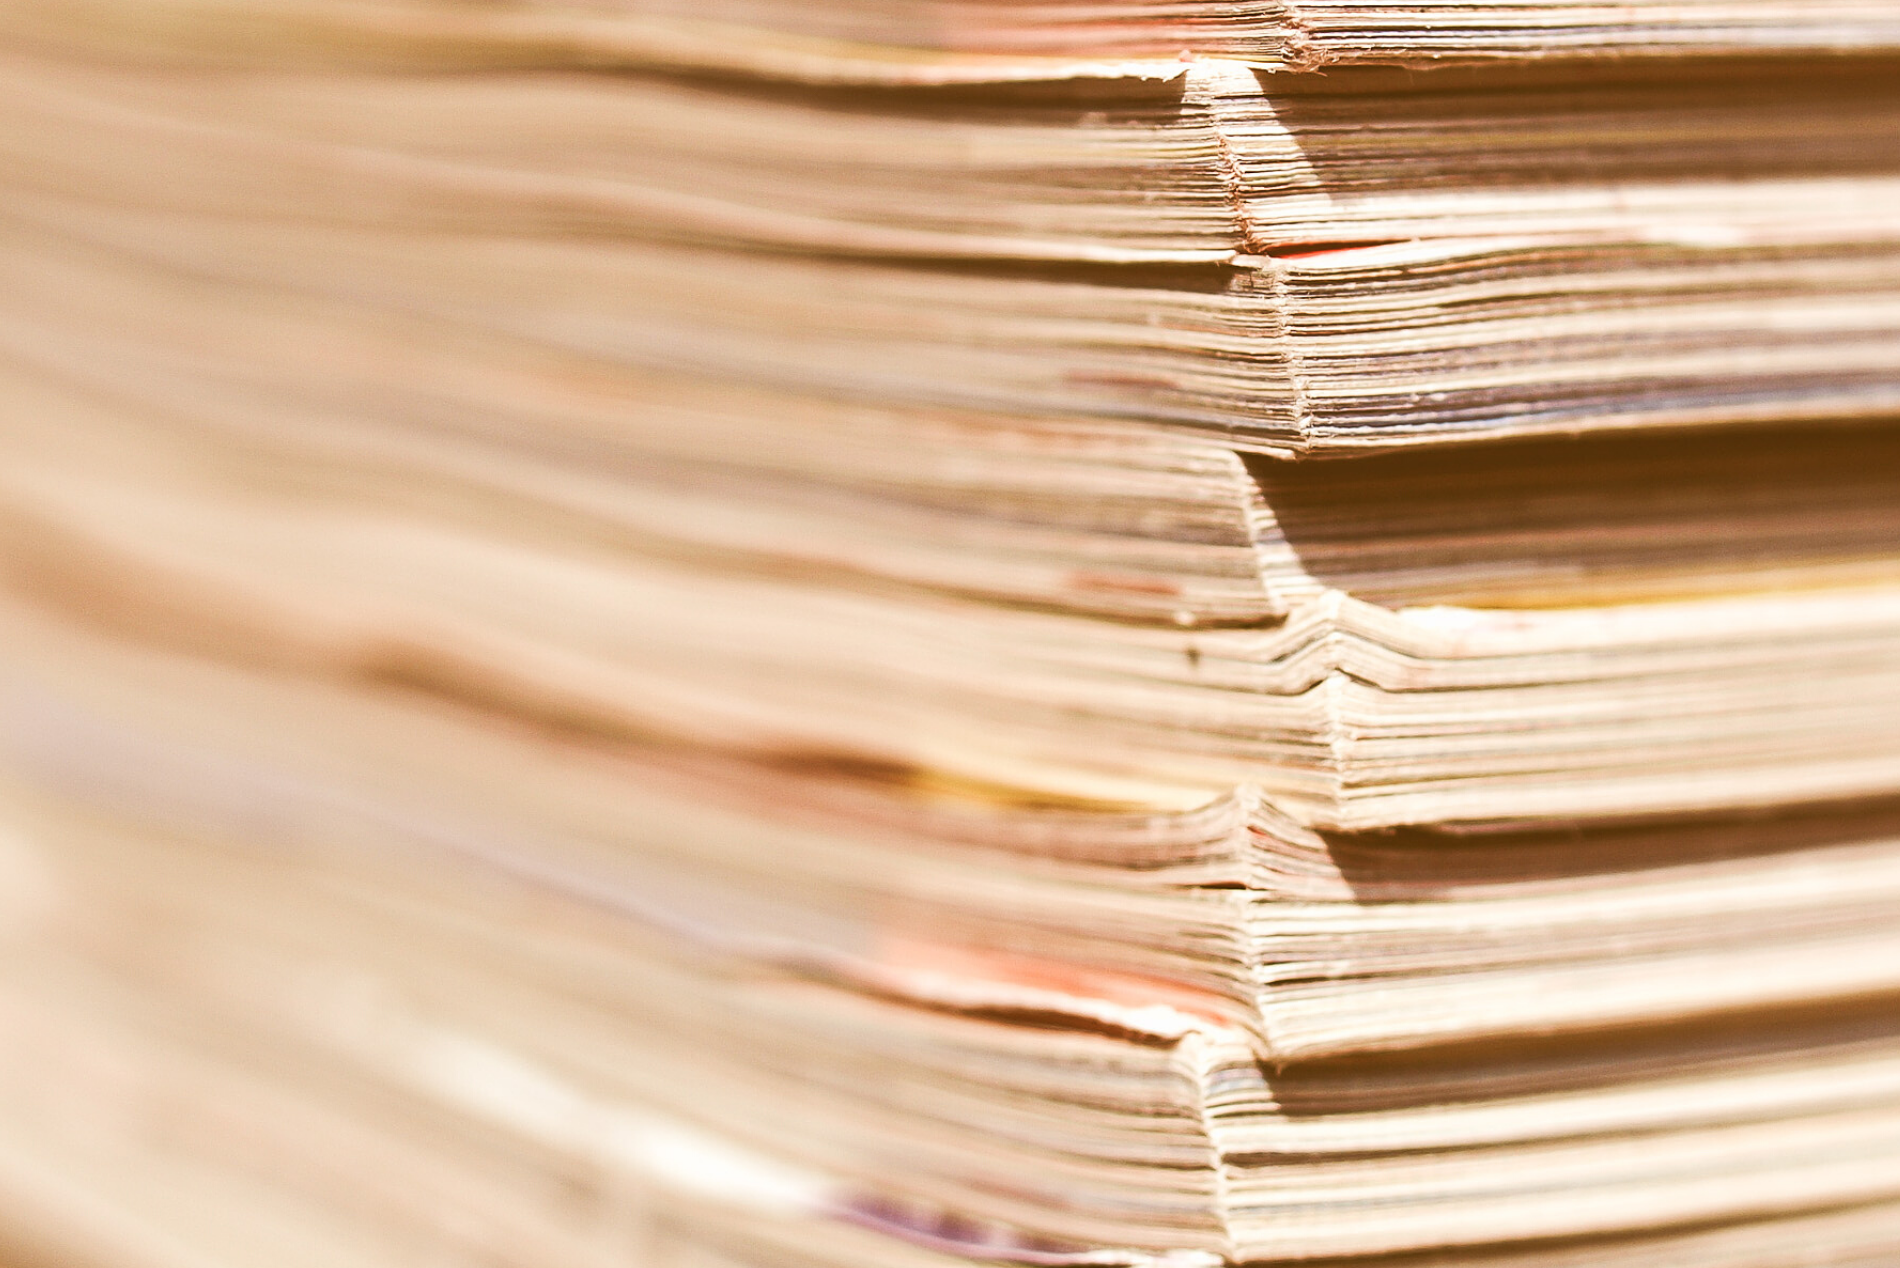
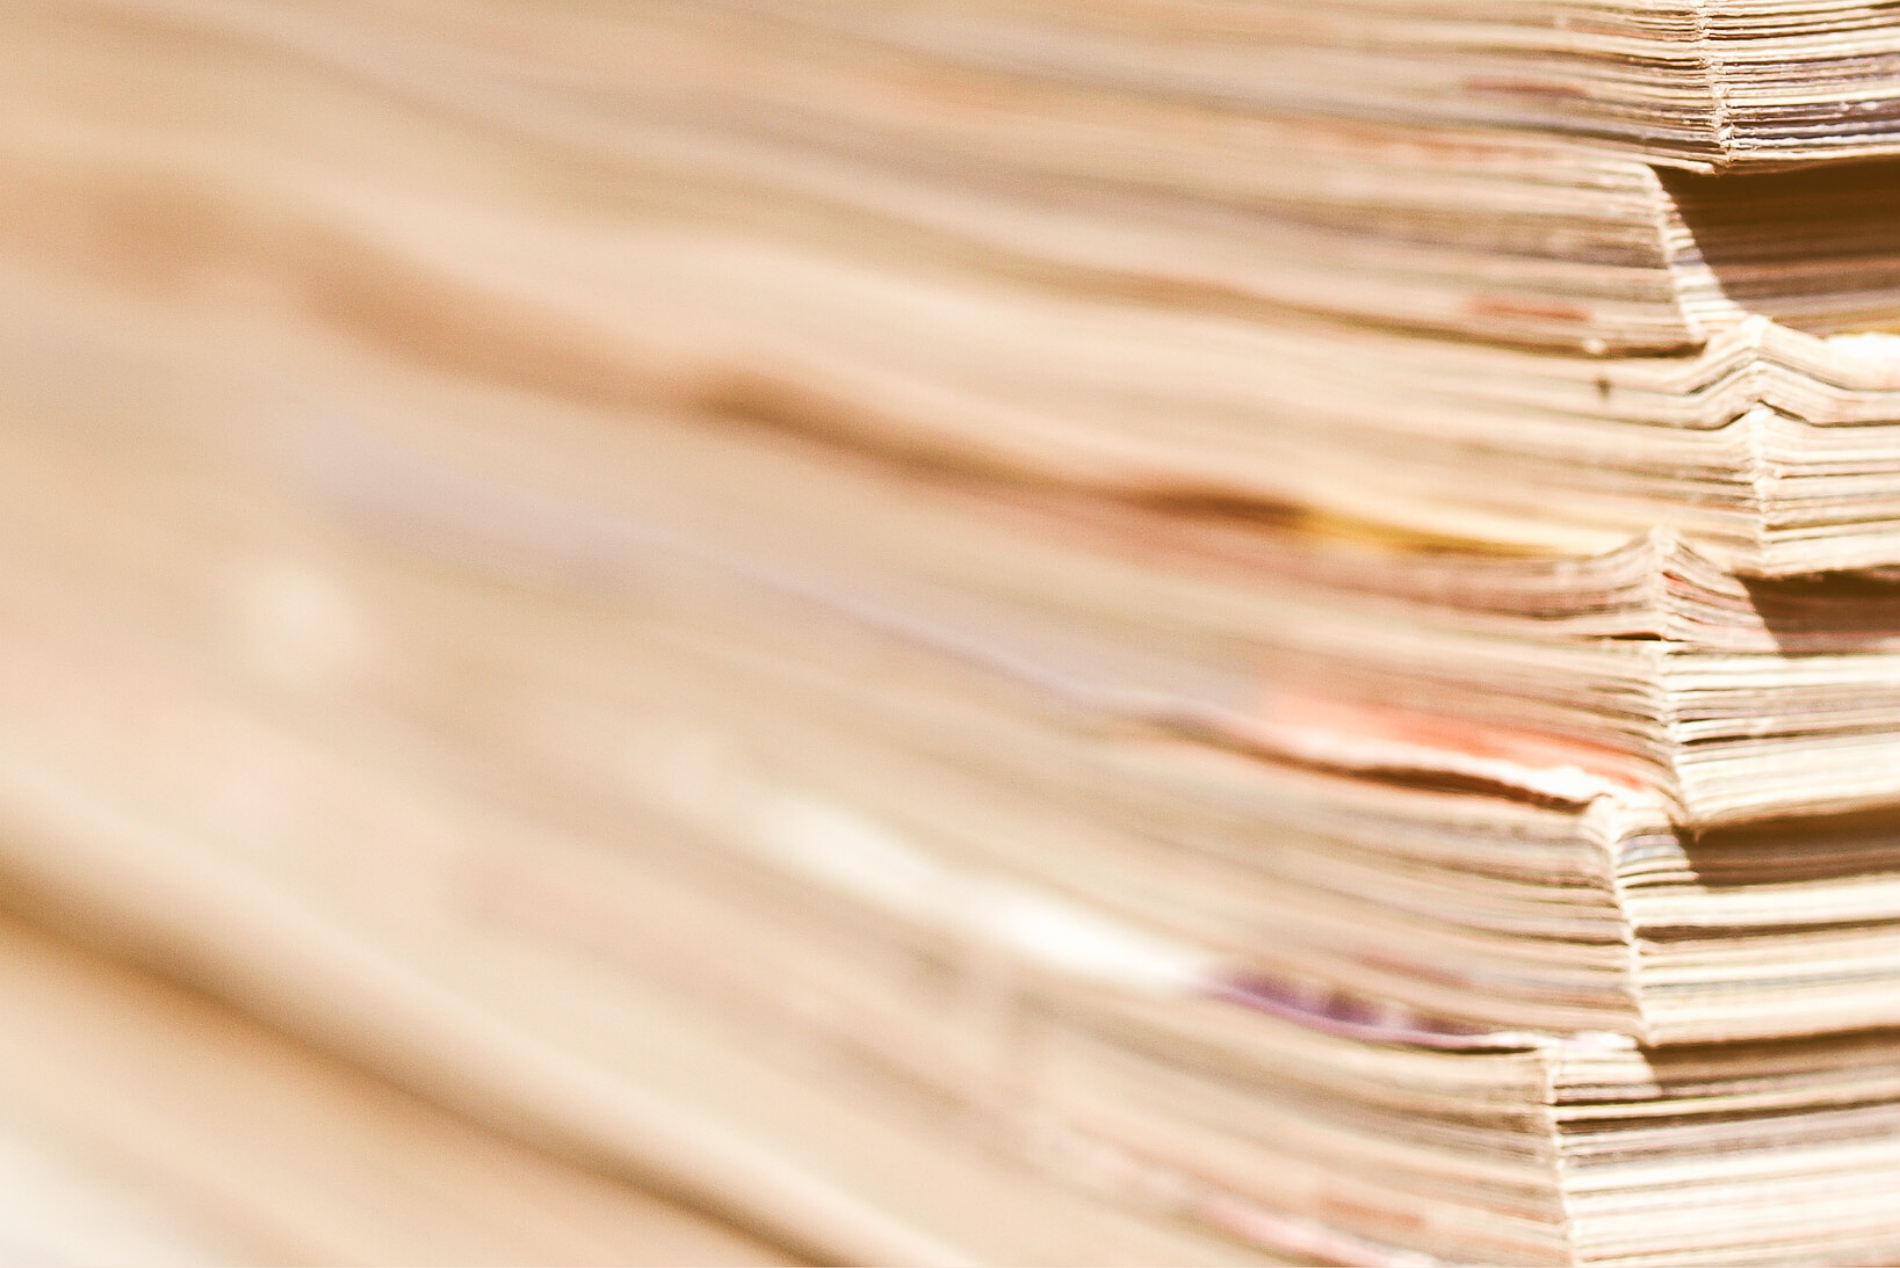
Updated:
1. background image for project 4
2. the link and description for project 4

diff --git a/index.html b/index.html
@@ -109,13 +109,13 @@
                         </div><img class="img-fluid" src="assets/img/papers.png"></a>
                 </div>
                 <div class="col-lg-6">
-                    <a class="portfolio-item" href="#">
+                    <a class="portfolio-item" href="https://akchi.github.io/Lending_Club/">
                         <div class="caption">
                             <div class="caption-content">
-                                <h2>Workspace</h2>
-                                <p class="mb-0">A yellow workspace with some scissors, pencils, and other objects.</p>
+                                <h2>Prediction model</h2>
+                                <p class="mb-0">A prediction model is designed on the loan dataset to determine if a particular loan will be repaid or not.</p>
                             </div>
-                        </div><img class="img-fluid" src="assets/img/portfolio-4.jpg"></a>
+                        </div><img class="img-fluid" src="assets/img/loan.png"></a>
                 </div>
             </div>
         </div>
